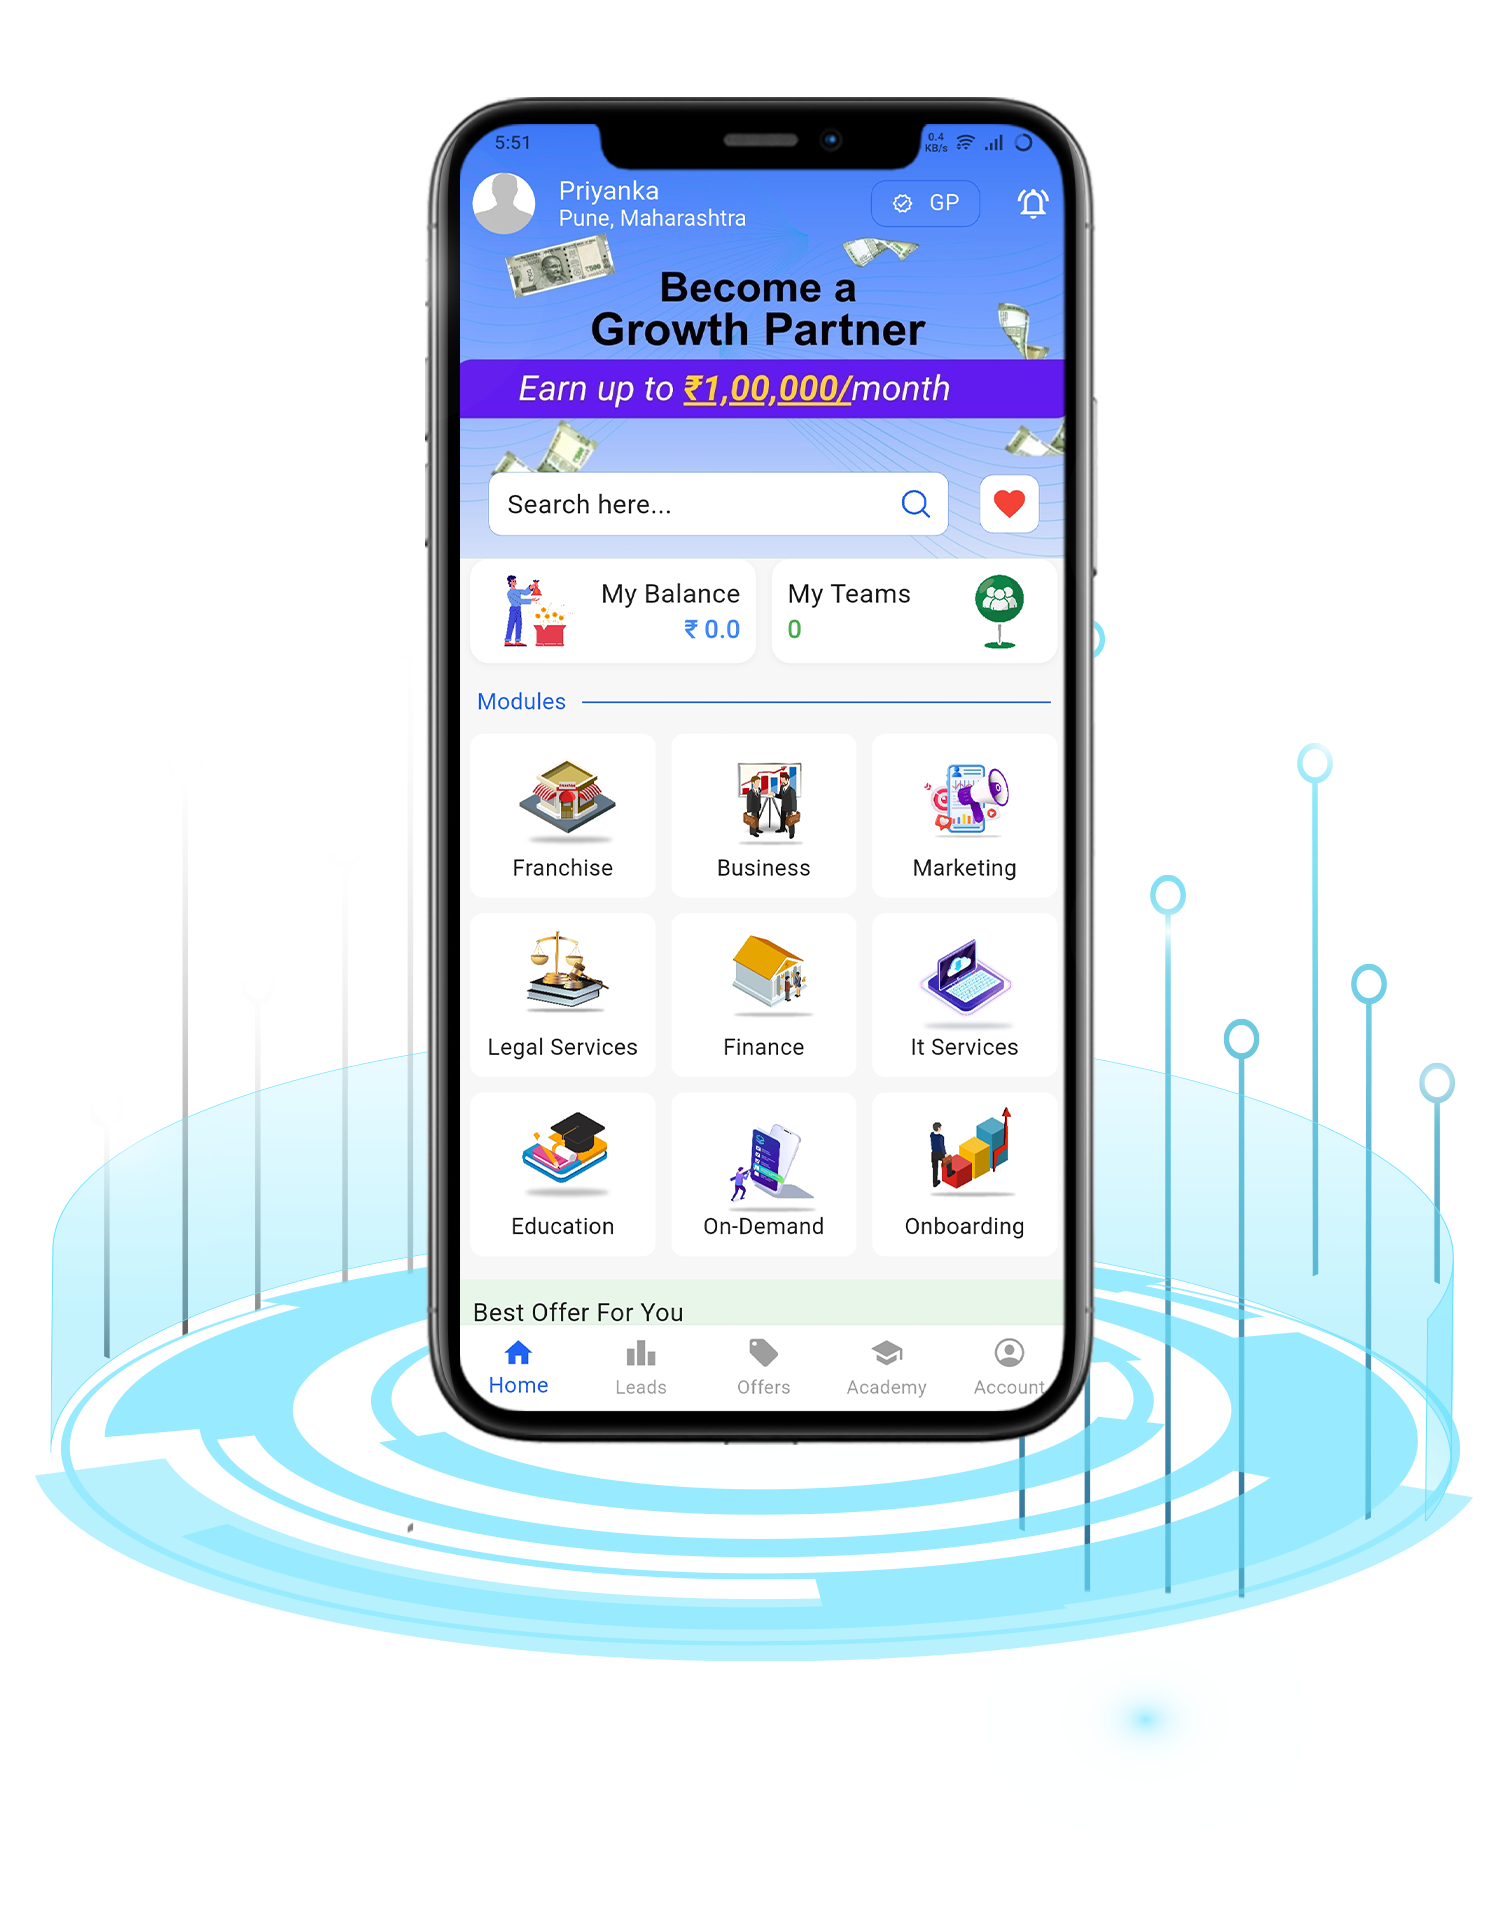
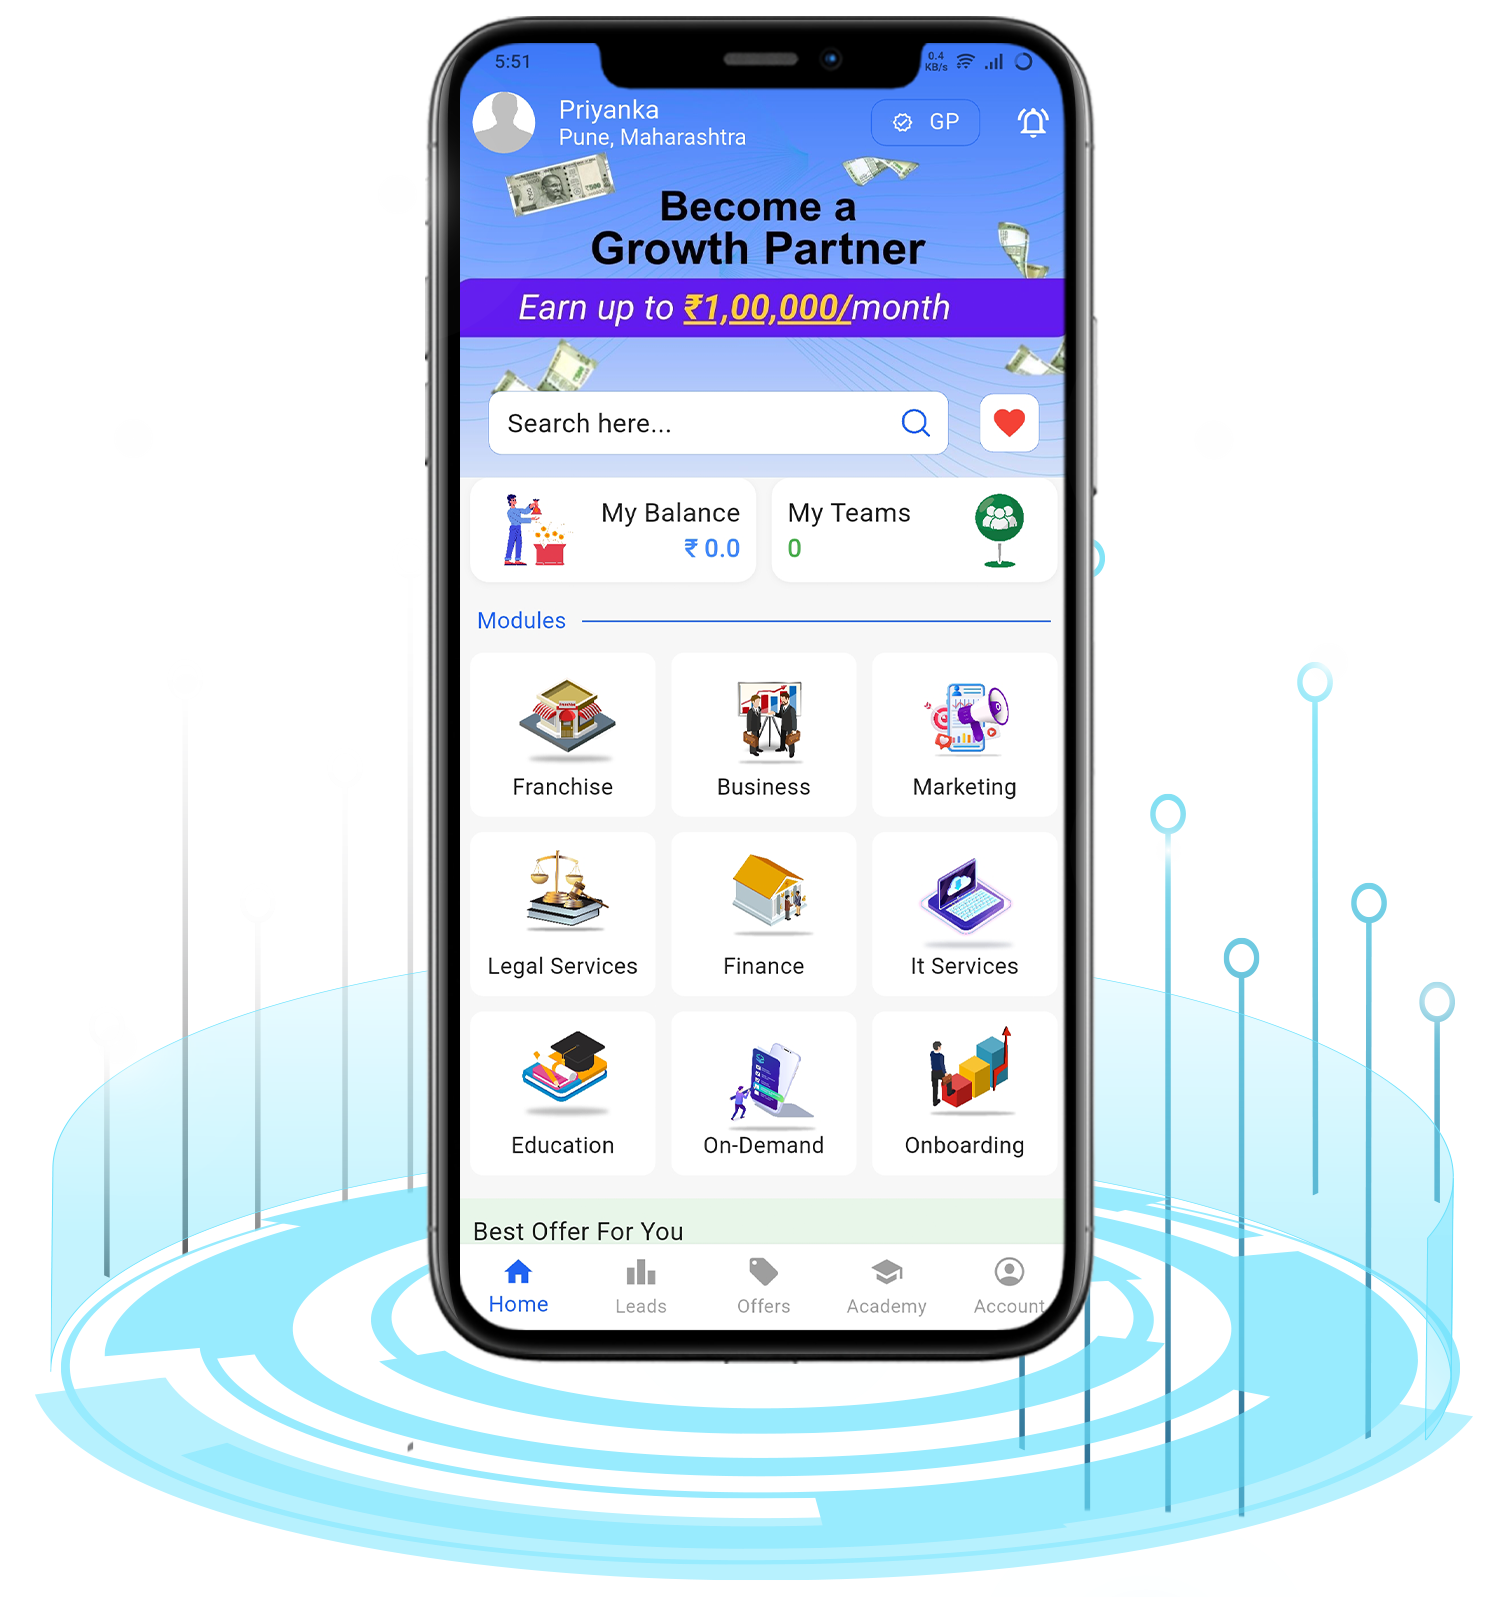
update

diff --git a/src/components/HeroSection.jsx b/src/components/HeroSection.jsx
@@ -243,7 +243,7 @@ const HeroSection = () => {
   }, [isAutoPlaying, nextSlide]);
 
   return (
-    <section className="relative w-full h-[600px] sm:h-[700px] md:h-[800px] lg:h-[1024px] flex items-center justify-center overflow-hidden text-center mt-15">
+    <section className="relative w-full h-[600px] sm:h-[700px] md:h-[800px] lg:h-[840px] flex items-center justify-center overflow-hidden text-center mt-0">
       {/* Background Image */}
       <img
         src="/Backround image.png"
@@ -255,8 +255,8 @@ const HeroSection = () => {
       <div className="absolute inset-0 bg-[radial-gradient(circle_at_top,_#1E3C72_0%,_#00000000_70%)] z-5"></div>
 
       {/* Centered Content */}
-      <div className="relative z-10 flex flex-col items-center justify-center px-5 sm:px-8 text-white max-w-[900px]">
-        <h1 className="font-bold text-2xl sm:text-3xl md:text-4xl lg:text-6xl leading-tight drop-shadow-lg lg:mt-10">
+      <div className="relative z-10 flex flex-col items-center justify-center px-5 sm:px-8 text-white ">
+        <h1 className="font-bold text-2xl sm:text-3xl md:text-4xl lg:text-5xl leading-tight drop-shadow-lg lg:mt-23  md:mt-30">
           {slides[currentSlide].title}
         </h1>
 
@@ -268,11 +268,11 @@ const HeroSection = () => {
           {slides[currentSlide].description}
         </p>
 
-        <div className="mt-4 sm:mt-8 md:mt-5">
+        <div className="mt-4 lg:mt-2  sm:mt-8 md:mt-2">
           <img
             src={slides[currentSlide].image}
             alt="Phone Mockup"
-            className="w-[250px] sm:w-[350px] md:w-[450px] lg:w-[550px] xl:w-[592px] h-auto object-contain rounded-xl drop-shadow-2xl transition-all duration-700 ease-in-out"
+            className="w-[250px] sm:w-[350px] md:w-[450px] lg:w-[500px] xl:w-[500px] h-auto object-contain rounded-xl drop-shadow-2xl transition-all duration-700 ease-in-out"
           />
         </div>
       </div>
